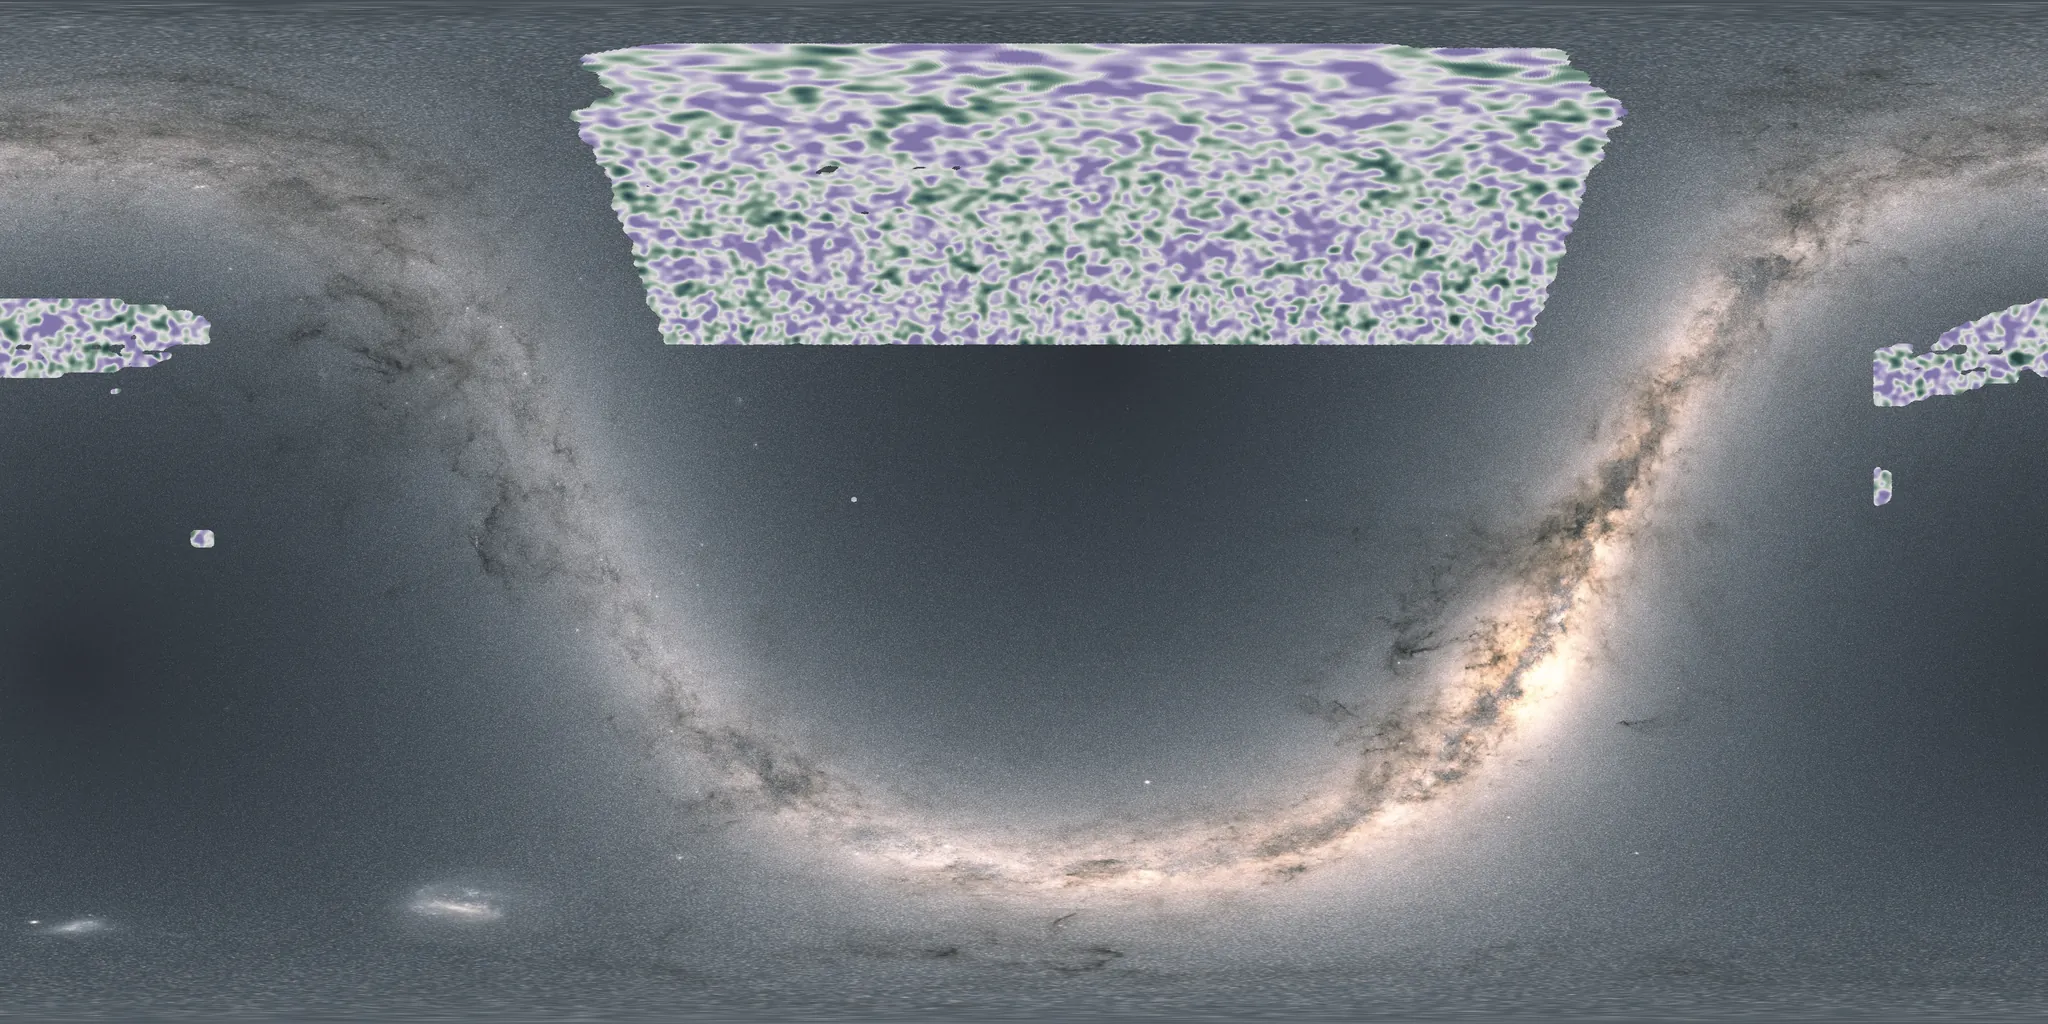
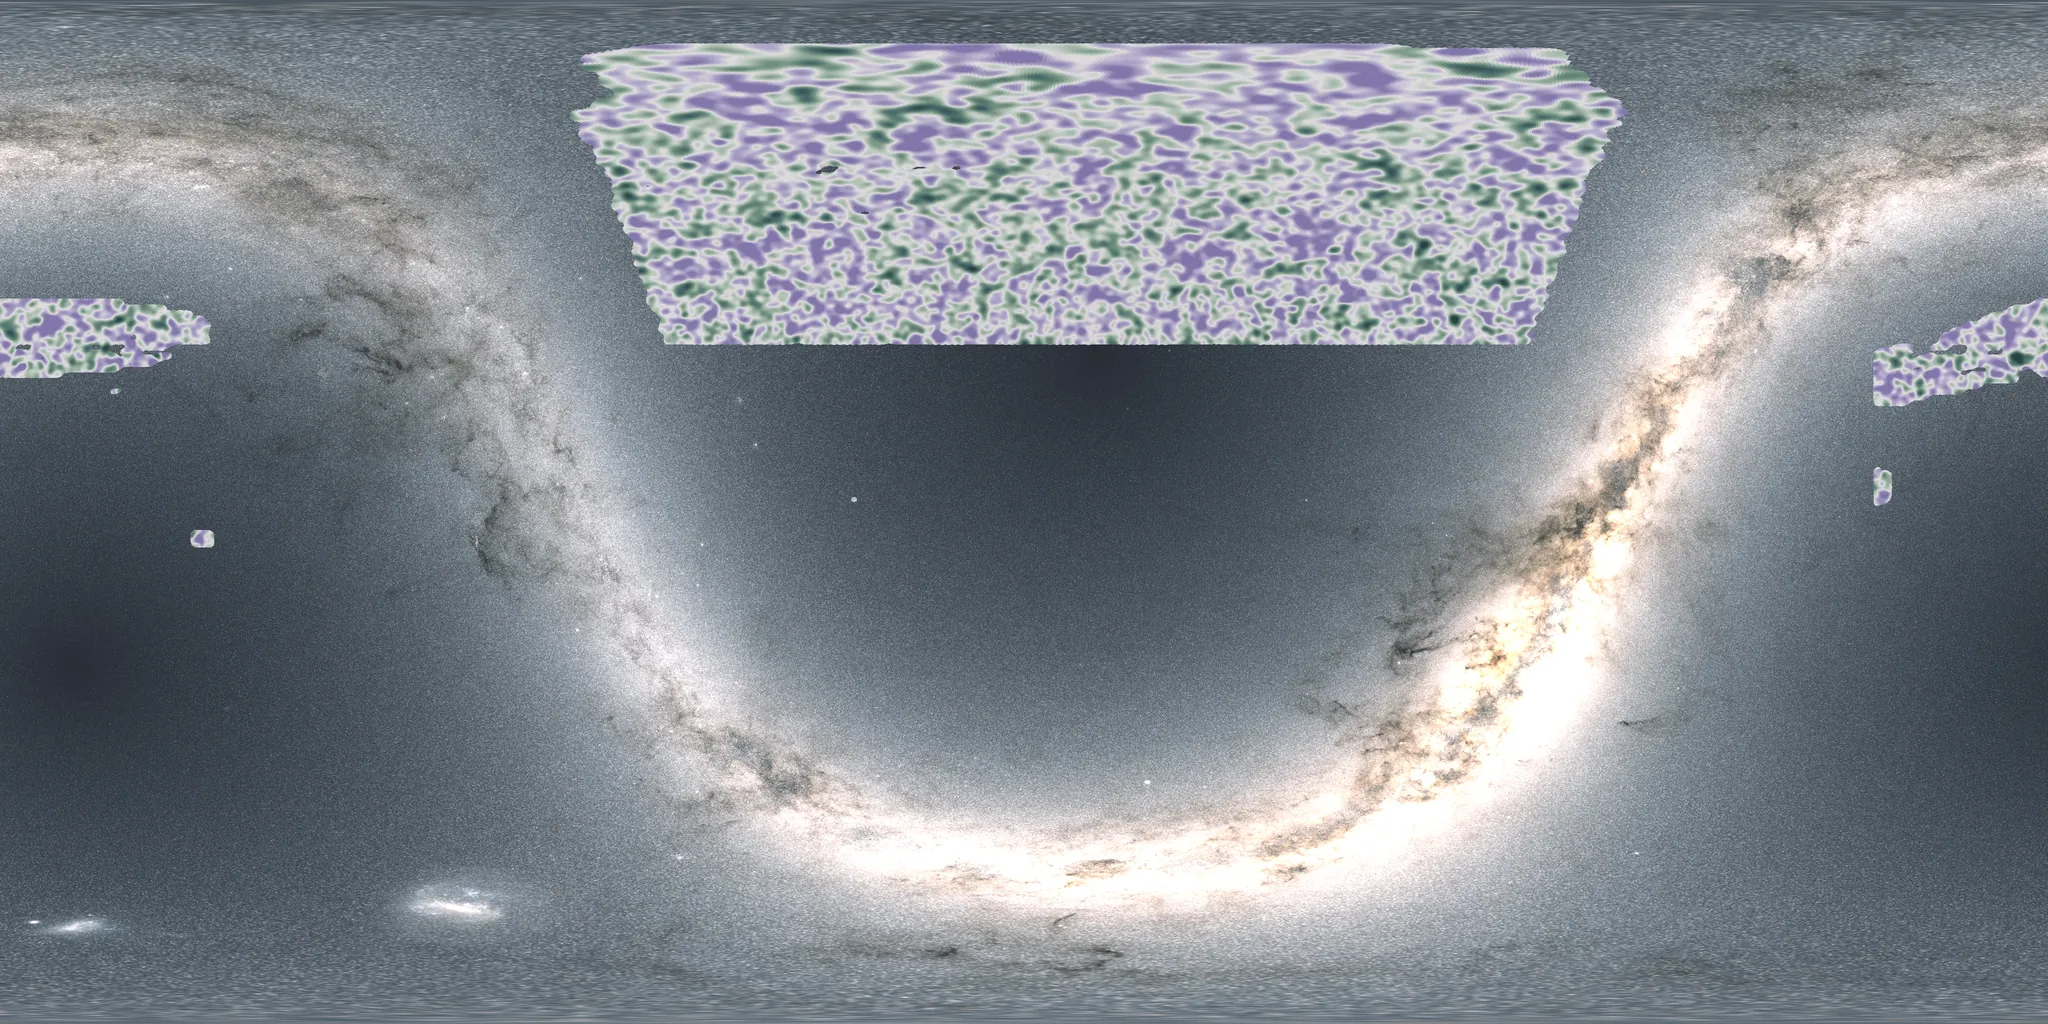
Globe opens on the footprint with the Milky Way on the limb; one 'currently' on Home
Claude-Session: https://claude.ai/code/session_01JK7o9FD5sBbrzjrcSZUym5

diff --git a/scripts/globe.py b/scripts/globe.py
@@ -50,7 +50,7 @@ LO, HI = -1.6, 3.5             # display range, in units of the shown map's σ
 MAP_ALPHA = 0.94               # opacity of the map over the sky
 
 # The opening view (data-elev, data-phi on /research): camera latitude and the RA it faces.
-ELEV, PHI = 34.0, 160.0
+ELEV, PHI = 55.0, 195.0
 STILL = 720                    # fallback still, px
 
 # low κ → high κ: voids in ridge violet, the mean in morning mist, mass
@@ -128,7 +128,7 @@ def gaia_sky(v, gaia_path):
     # quieter and a little warmer, as in the video; the night lifted from black to slate ink
     grey = s.mean(-1, keepdims=True)
     s = (grey + 0.8 * (s - grey)) * np.array([0.92, 0.89, 0.84])
-    return np.array([44, 48, 55]) / 255.0 + 0.9 * s
+    return np.array([40, 44, 52]) / 255.0 + 1.35 * s
 
 
 def bake(kappa_path, gaia_path):

diff --git a/src/content/pages/index.md b/src/content/pages/index.md
@@ -4,6 +4,6 @@ subtitle: Observational Cosmology · Science & AI
 mode: blended
 ---
 
-I'm an observational cosmologist studying gravitational lensing to map dark matter and constrain cosmology. My work spans the cosmic microwave background and optical galaxy surveys, and I'm a member of the Euclid, SPT-3G, and UNIONS collaborations. I'm currently a postdoc at CEA Paris-Saclay in the CosmoStat laboratory, funded by the [TOSCA project](https://tosca.cosmostat.org/), where I'm currently leading production of the 5,000 deg² UNIONS tomographic shear catalogue and a Euclid × SPT-3G cross-correlation paper.
+I'm an observational cosmologist studying gravitational lensing to map dark matter and constrain cosmology. My work spans the cosmic microwave background and optical galaxy surveys, and I'm a member of the Euclid, SPT-3G, and UNIONS collaborations. I'm currently a postdoc at CEA Paris-Saclay in the CosmoStat laboratory, funded by the [TOSCA project](https://tosca.cosmostat.org/), where I'm leading production of the 5,000 deg² UNIONS tomographic shear catalogue and a Euclid × SPT-3G cross-correlation paper.
 
 For the last year I've done all of my research with agentic AI, and I've been thinking a lot about how to do agentic science in a way that's more robust, more ambitious, and more enjoyable. As a core team member of [Lightcone Research](https://lightconeresearch.org), I help build open-source tools for verifiable AI-mediated science. You can find more in the [Almanac](/almanac).
